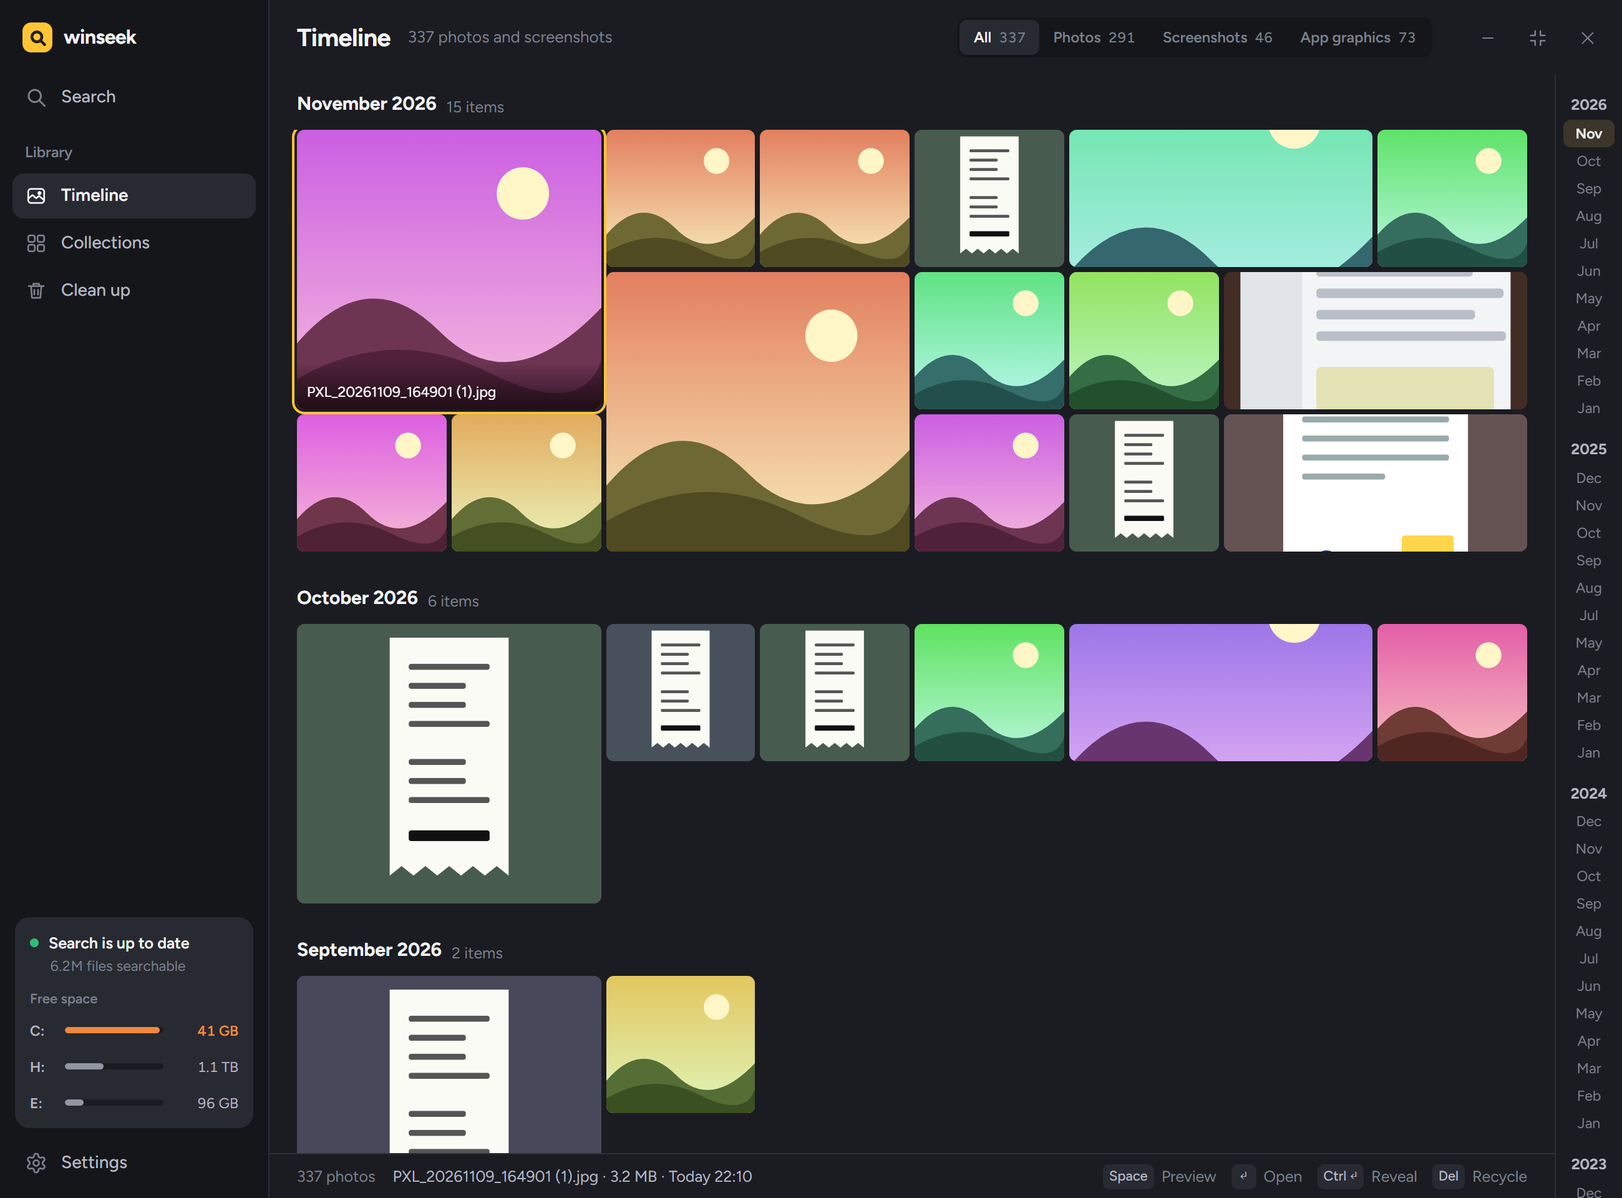
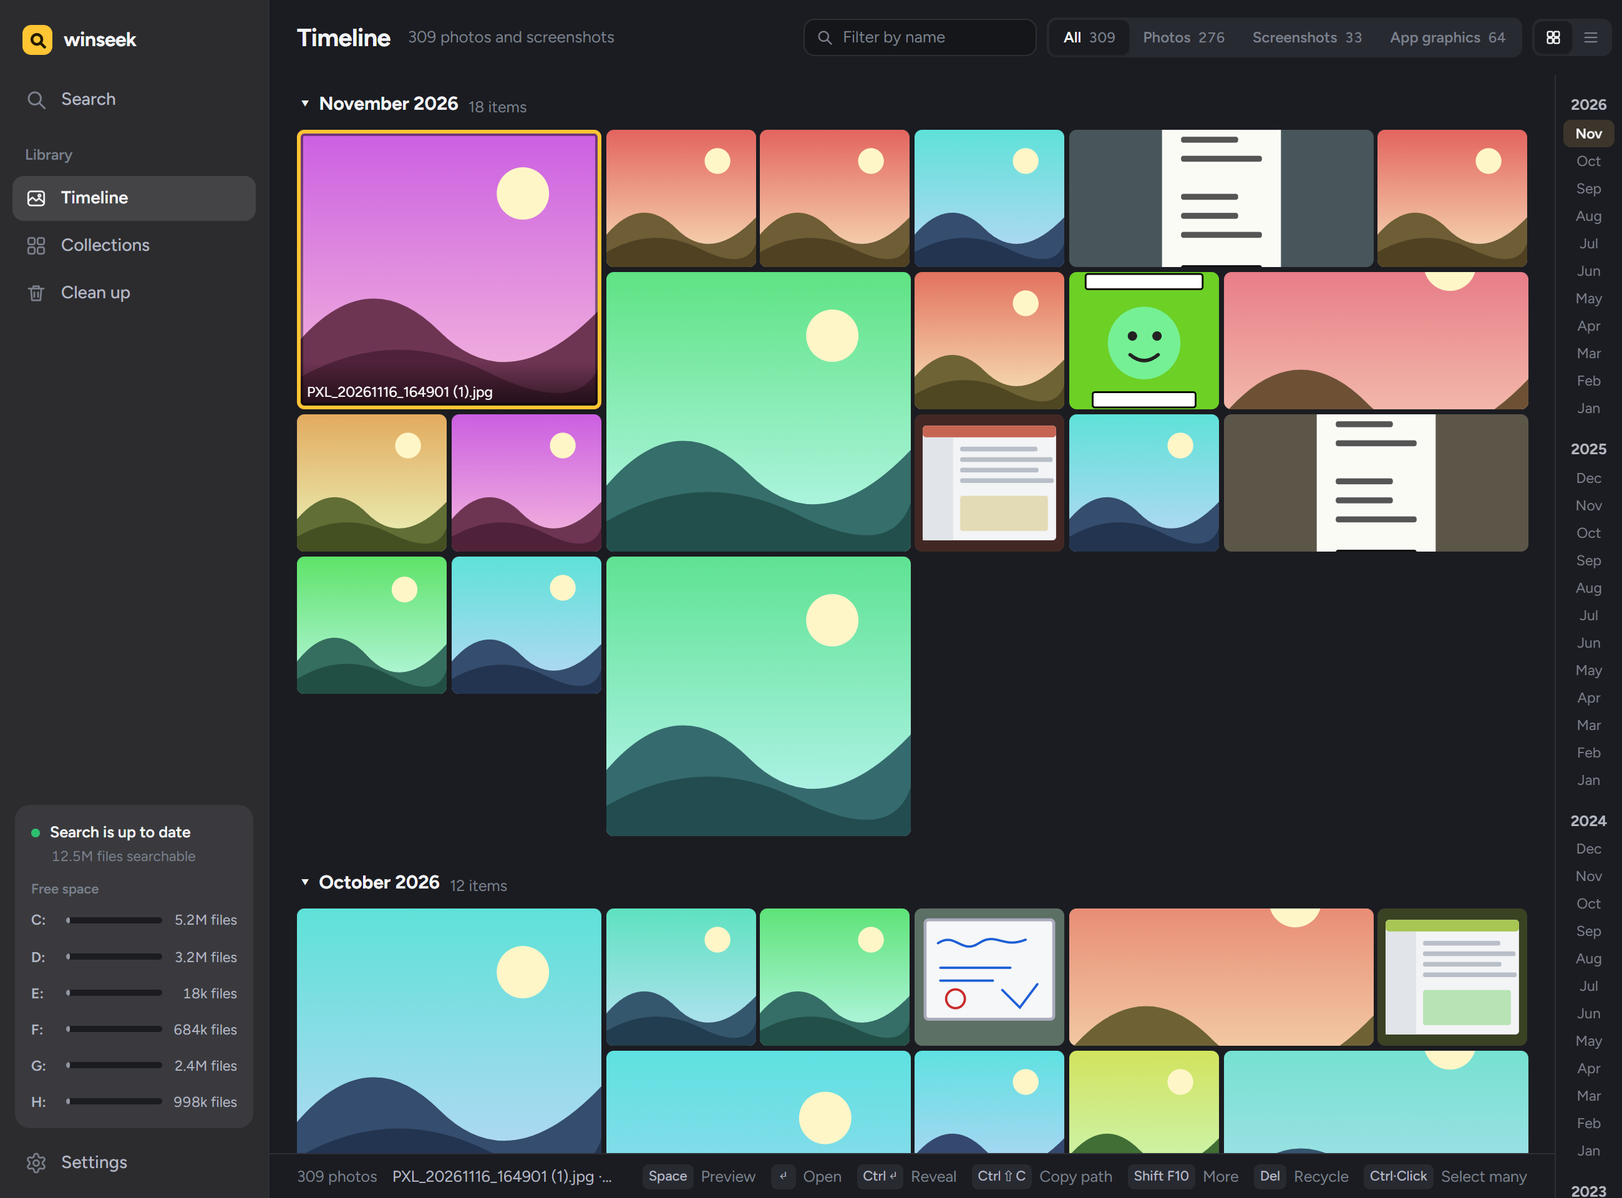
docs: FEATURES.md catalogues everything the app can do (fourteen sections from the search box to the MCP/CLI agent surface), the README points at it, and the screenshots are re-taken on the current build

diff --git a/FEATURES.md b/FEATURES.md
@@ -1,0 +1,269 @@
+# winseek — everything it can do
+
+winseek is one search box for your whole PC. It finds files by **name** instantly (Everything-speed, straight from the NTFS table), finds them by **meaning and content** (documents, PDFs, screenshots, photos, code), launches **apps and Windows settings**, and gives you a **Library** for your photos, duplicates, disk space and clean-up. It also lets AI agents search your PC through a read-only **MCP server and CLI**.
+
+Contents: [Search](#1-search) · [Results & actions](#2-results--actions) · [Preview](#3-preview) · [Search by meaning](#4-search-by-meaning) · [Code search](#5-code-search) · [Launcher](#6-launcher) · [Library](#7-library) · [Disk space](#8-disk-space) · [Clean-up](#9-clean-up) · [Shortcuts](#10-keyboard-shortcuts) · [Settings](#11-settings) · [AI agents, MCP & CLI](#12-ai-agents-mcp--cli) · [Indexing](#13-indexing-and-live-updates) · [Privacy](#14-privacy-and-safety)
+
+---
+
+## 1. Search
+
+### Instant name search
+- Every drive is read directly from the NTFS master file table and then kept current from the USN change journal (new, renamed and deleted files appear within about a second). A full scan of a large system drive takes seconds; later launches restore from a snapshot in under 5 s.
+- Works on NTFS, ReFS (via a journal walker), exFAT, FAT and USB drives (via a folder watcher).
+- Matching ignores case and accents; every word must match.
+- Name hits show **why** they matched, and matched words are highlighted.
+
+### Plain-language search (chips)
+Type naturally. Recognised phrases become chips in the bar; everything else is searched as text. Remove a chip with its ✕ or with Backspace at the start of the box, and its words go back into the search.
+
+| You type | winseek understands |
+|---|---|
+| `photos from last summer` | Pictures + that summer |
+| `pdf invoice 2025` | PDF + year 2025 + text "invoice" |
+| `big videos` | Video over 100 MB |
+| `screenshots this week` | Screenshots from this week |
+| `image of a cat` | Pictures + text "cat" |
+
+- **Types:** photos/pictures/pics/images · docs/documents · videos/movies/clips · audio/music/songs/podcasts · folders/directories · apps/programs/installers · settings · files
+- **Dates:** today, yesterday, this/last week (Monday start), this/last month, this/last year, `past 7 days` (any count of days/weeks/months/years), seasons (`last summer`, `winter 2025`), months (`march`, `mar 2025`), years (`2024`). Filler words like *from, in, during, since, on* are understood.
+- **Sizes:** `big` (>100 MB), `huge` (>1 GB), `small` (<1 MB), or exact: `over 10 mb`, `under 500 kb`, `> 2 gb`, `<= 50mb`. Units b / kb / mb / gb / tb.
+- **Extensions:** pdf, docx, xlsx, pptx, csv, txt, md, png, jpg/jpeg, gif, heic, mp4, mkv, mp3, flac, wav, zip, exe, msi (`.pdf` with a dot works too).
+- **Screenshots** is its own chip.
+
+### The Filters button
+The **Filters** button in the search bar opens "Narrow your search": one-click Type, Date, Size and File-type buttons (click again to remove; picking another in the same row swaps it) and a Power-syntax section that inserts the typed forms below.
+
+### Power syntax
+All terms must match (AND).
+
+| Syntax | Meaning |
+|---|---|
+| `"exact phrase"` | words together, in order |
+| `!word` | exclude matches |
+| `*` `?` | wildcards (`*.psd`, `report-202?`) |
+| `ext:jpg;png` | one or several extensions |
+| `size:>50mb`, `size:10mb..1gb` | size comparisons and ranges (`>` `>=` `<` `<=` `A..B`) |
+| `folder:` / `file:` | only folders / only files |
+| `ws:` | match at the start of a word |
+| `docs\2024` | a path fragment limits results to that folder |
+| `code:` | search inside source code ([§5](#5-code-search)) |
+| `20% of 80`, `(15/4)^2` | built-in calculator ([§6](#6-launcher)) |
+
+### Search box extras
+- **Type tabs with live counts** for the typed query: All, Apps, Settings, Images, Docs, Video, Audio, Folders (Tab / Shift+Tab or Alt+1…8).
+- **Sort** (Alt+S cycles): best match, name, size, date, type, path, each ascending/descending.
+- **Drive switch**: limit to one drive or search all.
+- **Search history**: Alt+↑/↓ steps through earlier queries.
+- **Clipboard search**: a separate hotkey opens winseek with your clipboard text as the query.
+- **Expand a section** (Alt+→) to see every result of one type, Alt+← to go back.
+- **Image grid** results in the popup, navigable with ←/→.
+- **"Fix it" suggestions** on empty results: remove a chip, widen the search.
+
+---
+
+## 2. Results & actions
+
+- **Two windows, one app:** a compact popup (global hotkey, default Alt+Space) and a full window with sidebar. Switch with the expand/contract button; set which one opens by default.
+- **Result layouts:** list, grid, gallery; rows show type icon or thumbnail, path breadcrumb, size, date.
+- **Top result card** with a large icon and a preview of the path, and a **"Most used"** app tile.
+- **Open** (Enter), **Show in folder** (Ctrl+Enter), **Run as admin** for apps (Ctrl+Shift+Enter), **Properties** (Alt+Enter), **Open terminal in folder** (Ctrl+Shift+T), **Open folder without selecting** (Ctrl+Shift+E).
+- **Rename** in place (F2).
+- **Delete → Recycle Bin** (Delete, confirmed by pressing twice) with **Undo** (Ctrl+Z) and an Undo link in the toast.
+- **Copy**: the file itself (Ctrl+C, pastes in Explorer), full path (Ctrl+Shift+C), file name (Ctrl+Alt+C).
+- **Drag out** a result into other apps, **right-click / Shift+F10 / Ctrl+K** for the full context menu.
+- **Multi-select** with Ctrl+click; a running **total size** is shown.
+- **Open at a position**: PDFs at a page, media at a timestamp, code at a line, in your default handler when it supports that (VLC, mpv, MPC-HC, VS Code, Notepad++), otherwise the plain open.
+- **Toasts** for every action, with Undo where it applies.
+- **Update checker** (daily, optional) with a link to the release page.
+
+---
+
+## 3. Preview
+
+Press **Space** on any result. Esc closes.
+
+- **Images**: fit, wheel zoom, drag pan, 1:1 (Ctrl+= / Ctrl+− / Ctrl+0, Alt+Shift+arrows to pan). HEIC supported.
+- **PDF**: page-by-page via the bundled PDF reader (Ctrl+PgUp/PgDn between pages).
+- **Documents**: Word documents rendered inline; text and code with syntax highlighting; **Markdown** with GitHub-style rendering and a Preview/Source toggle; highlighted code blocks.
+- **Video / audio** playback.
+- **Document parser** (Ctrl+E): turns a page into text with tables; **copy extracted text** (Ctrl+Shift+X), **copy tables as HTML or Markdown** (pastes into Excel/Word).
+- **Match highlighting**: boxes drawn on the image or page where your search words were found (from OCR and parser locations).
+- **Path crumbs** and a compact facts strip (size, dimensions, dates).
+
+---
+
+## 4. Search by meaning
+
+Optional. Describe what a file is about, and winseek finds it even when the words differ.
+
+- Covers the folders you choose (default: Pictures, Documents, Desktop, Downloads). Name search always covers every volume.
+- **Images**: searches by what is in the picture and by any text in it.
+- **Documents and PDFs**: text is extracted and embedded; scanned or image-only pages are read with Windows OCR, and sparse or garbled pages go to an optional **document parser** vision model (tables kept as HTML/Markdown). Unreadable pages are skipped, never guessed.
+- **Audio and video**: the soundtrack is embedded in ~30 s overlapping windows, and videos also get one frame per shot (scene change, at least one per minute), embedded like images. No transcript step: audio is matched by meaning directly. Hits open at the matching timestamp. Needs the ffmpeg component (installed on demand); without it audio/video files stay queued.
+- **Relevance gate**: results below a score learned from your own index are dropped, so searches return few good answers instead of a long tail.
+- **Result refiner (reranker)**: optional second pass that reorders the top hits.
+- **Combined ranking**: name, content and meaning hits are fused into one list; each says why it matched.
+- **Local models on llama.cpp**: EmbeddingGemma embeddings plus a vision encoder; CUDA → Vulkan → CPU fallback chosen by GPU detection and a health check; models are pinned and SHA-256 checked; servers listen on 127.0.0.1 with a per-launch key and exit after two idle minutes.
+- **Performance profiles**: Low, Balanced, Fast background work.
+- **Folder scopes** with an estimate (files, time) before you add a folder; per-folder removal; **skipped-names list** (e.g. `Raw*`, `scratch`) to ignore files and folders.
+- **Pause / resume**, **rebuild the meaning index**, **index health check**.
+
+---
+
+## 5. Code search
+
+- Turn on **Index source code** in Settings, then search with `code:` ("code: parse config").
+- Chunks are line-aware, so each hit carries its **line number** and opens at that line.
+- Ranking blends keyword and meaning (hybrid), and favours definitions.
+- **Git-aware**: inside a repository, `git ls-files` decides what counts (respects `.gitignore`, global excludes, nested repos); falls back to a built-in `.gitignore` parser without git.
+
+---
+
+## 6. Launcher
+
+The same box launches things.
+
+- **Apps**: Start-menu apps, Store (UWP) apps, **portable programs** (unzipped tools, game launchers, scoop apps found by the name index), and **programs on your PATH**. Uninstallers can be hidden.
+- **Aliases**: type `word` for Microsoft Word, `ps` for Photoshop, `taskmgr` for Task Manager; built-in table plus your own aliases.
+- **Learning**: your picks are remembered per typed prefix (frecency), so `mp` opens what you always mean. Clear history in Settings.
+- **Windows settings and Control Panel** pages, searchable by name.
+- **System commands**: lock, sleep, hibernate (only when available), restart, shutdown, sign out, empty Recycle Bin, plus winseek's own panels. Dangerous ones need a second Enter to confirm.
+- **Calculator**: `2+2*3`, `(15/4)^2`, `20% of 80`; Enter copies the result.
+- **Hide / unhide** items, copy path, reveal, run as admin (context menu with keyboard letters).
+- Toggle each source (apps, settings, commands, portable, PATH) in Settings › Launcher.
+
+---
+
+## 7. Library
+
+Open with Ctrl+L, the sidebar, or the tray. Tabs: **Timeline**, **Collections**, **Clean up** (Ctrl+1/2/3).
+
+### Photo timeline
+- Every indexed picture, newest first, grouped by year and month with counts and sizes, in a mosaic with feature tiles or a list.
+- Views: **All**, **Photos** (camera and saved images), **Screenshots**, **App graphics** (icons, logos and game assets that ship with software are detected without any model and hidden from everything else).
+- Name filter, hidden files, month jump, floating preview pane (Space).
+- Scales to a million photos by keeping the list in the backend and sending only what is on screen.
+
+### Collections
+- A collection is a **saved description** ("a photo of a paper receipt or invoice"); winseek keeps it filled from your photos, screenshots and documents. Starters include Receipts, Whiteboards, Memes, Documents to sign and Screenshots; icons and app graphics stay out.
+- A **strictness slider** controls how tight a collection is.
+- **Create (Ctrl+N), rename/edit (F2), delete** collections; press X on a tile that does not belong and it stays out.
+
+---
+
+## 8. Disk space
+
+WizTree-style, reachable from the sidebar drive card or Clean up.
+
+- Per-drive bar by file type, folder tree with sizes, and a **treemap**.
+- Biggest files list and by-type lists; cached roll-ups so it opens instantly after the scan.
+- **Selection total** shown once, consistently, across the header, side panel and Recycle button.
+- Select and **recycle** straight from here.
+
+---
+
+## 9. Clean-up
+
+Two tabs: **Suggestions** and **Disk space**. "Nothing is deleted until you say so."
+
+- **Suggestions** summarises what you can free (total, duplicate size, large files you don't open) with three lists:
+  - **Duplicates** (keeps the original), with **Review groups** and **Find similar photos** (a background near-duplicate scan).
+  - **Large and untouched** files, biggest first, with **See all**.
+  - **Old screenshots** older than six months.
+- Check rows with Space, Enter to review, Delete to recycle; everything goes to the Recycle Bin (with Undo).
+
+---
+
+## 10. Keyboard shortcuts
+
+Press **F1** or **Ctrl+/** for the live cheat sheet (shows your current bindings).
+
+| Where | Keys |
+|---|---|
+| Global | **Alt+Space** show/hide (rebindable) |
+| Move | ↑↓, PgUp/PgDn, Ctrl+Home/End, Ctrl+↑↓ between sections, ←→ in image grid, Esc back one layer |
+| Query | Tab / Shift+Tab type filter, Alt+1…8 jump to a type, Alt+S sort, Backspace removes last chip, Alt+↑↓ history, Alt+→ / Alt+← expand / back |
+| Selection | Enter, Space, Ctrl+Enter, Ctrl+Shift+Enter, Alt+Enter, F2, Delete, Ctrl+Z, Shift+F10 / Menu, Ctrl+K, Ctrl+C, Ctrl+Shift+C, Ctrl+Alt+C, Ctrl+Shift+E, Ctrl+Shift+T |
+| Windows | Ctrl+L Library, Ctrl+, Settings, Ctrl+Shift+L index health |
+| Preview | Esc, Enter, Ctrl+Enter, Ctrl+Shift+C, Ctrl+PgUp/PgDn, Ctrl+= / − / 0, Alt+Shift+arrows, Ctrl+E, Ctrl+Shift+X |
+| Library | Ctrl+1/2/3 tabs, Esc/Alt+← back, ↑↓, Enter, Ctrl+N, F2, Delete; Clean-up: Tab, Space, Delete |
+| Settings | Tab, Ctrl+1…7 sections, ↑↓, Esc |
+
+Layouts are physical-key based, so they work on AZERTY and other keyboards.
+
+---
+
+## 11. Settings
+
+Search the settings with the **Find a setting** box.
+
+- **General**: open as (popup or full window), start with Windows, daily update check, version, Library options.
+- **Appearance**: themes (built-in palettes), **custom theme editor** (a colour for every element, saved), accent colour, window transparency.
+- **Shortcuts**: popup, Library and clipboard hotkeys, recorded by pressing the keys; **pause hotkeys** from the tray, and automatically in full-screen games and presentations.
+- **Indexing**: folders, source-code indexing, skipped names.
+- **Search by meaning**: status, index check, per-component **model downloads** (embedder, llama.cpp runtime, PDF reader, document parser, result refiner) with progress and cancel, performance profile, rebuild.
+- **Launcher**: which sources appear, aliases, history.
+- **AI agents**: enable the MCP server, choose what agents may read, **activity log**, command-line PATH.
+- **Status**: per-drive index state, meaning-index progress, model server rows with unload countdown.
+
+Other UI: a **bottom jobs strip** showing drive scans, meaning indexing, document reading and downloads (click a segment to open its settings), a first-run setup with a folder estimate, a system-tray icon and autostart.
+
+---
+
+## 12. AI agents, MCP & CLI
+
+### MCP server (`winseek-mcp.exe`)
+Read-only, stdio JSON-RPC, off by default (Settings › AI agents). Every call is logged on the settings page. Connect Claude Code, Claude Desktop, Cursor, VS Code or Codex with the snippets provided.
+
+| Tool | What it does |
+|---|---|
+| `search_files` | name search with the full syntax, sort and date/size filters |
+| `search_by_meaning` | semantic search over indexed content |
+| `read_text` | read a file's text (with page) |
+| `parse_document` | run the document parser on a page |
+| `recent_files` | most recently changed files |
+| `file_info` | metadata for a path |
+| `find_apps` | installed apps, settings pages, commands |
+| `library_big_files`, `library_duplicates`, `library_collections` | the Library's big files, duplicate groups and collections |
+| `index_status` | index health (always available) |
+
+Agents cannot open, launch, rename or delete anything.
+
+### Command line (`winseek-cli.exe`)
+
+```
+winseek-cli search <query...> [-n N] [--sort ORDER] [--long] [--json]
+winseek-cli status [--json]
+winseek-cli index [VOLUME | --all] [--wait] [--timeout SECS]
+winseek-cli meaning <query...> [-n N] [--long] [--json]
+winseek-cli read <path> [--page N] [--max N] [--json]
+winseek-cli recent [-n N] [--json]
+winseek-cli apps <query...> [-n N] [--kind app|setting|command] [--json]
+winseek-cli path [status | add | remove] [--machine] [--json]
+```
+
+Sort orders: name, size, date, type, path, each with `_asc` / `_desc`. `search`, `status` and `index` work with the app closed; the rest need the app with agent access on. Paths print one per line, `--json` on any command.
+
+---
+
+## 13. Indexing and live updates
+
+- **Tier 0 (name index)** runs as a Windows service (`searchd`) and never reads file contents.
+- **Tier 1 (content)** runs in your user account only: crawler, text extraction (documents, PDFs, code, media metadata), OCR, embeddings, document parser, picture classification, near-duplicate scan.
+- Index lives in one SQLite file (FTS5 full-text plus vector table) with automatic recovery from damage; snapshots keep launches instant.
+- Rescan a drive on demand; a stuck scan is detected.
+- Background work respects your profile and steps aside for games.
+
+---
+
+## 14. Privacy and safety
+
+- No account, no telemetry. The only network traffic is model downloads you start yourself (and the optional update check).
+- File contents and models are never touched by the SYSTEM service.
+- Local model servers bind to 127.0.0.1 with a per-launch key.
+- MCP/CLI access is read-only and off until you enable it; the pipe is restricted to your user.
+- Deleting uses the Recycle Bin with Undo.
+
+## Not built yet
+Sorting by created/accessed time (date sort is modified time only), and word-for-word transcripts of speech (audio is searched by meaning, not transcribed).

diff --git a/README.md b/README.md
@@ -4,15 +4,31 @@
 [![Release](https://img.shields.io/github/v/release/ach-raf/winseek?include_prereleases)](https://github.com/ach-raf/winseek/releases)
 [![License: MIT](https://img.shields.io/badge/license-MIT-blue.svg)](#license)
 
-File search for Windows with two modes: instant name search over every drive, and search by what files contain (photos, scans, PDFs). Everything runs locally.
+File search for Windows with two modes: instant name search over every drive, and search by what files contain (photos, scans, PDFs). Everything runs locally. See [FEATURES.md](FEATURES.md) for the full list of what it can do.
 
-<p align="center"><img src="screenshots/popup.png" alt="The winseek popup: filename matches, then results related by meaning" width="720"></p>
+<p align="center"><img src="screenshots/popup.png" alt="The winseek popup: the best match first, then results related by meaning, with the live jobs strip at the bottom" width="720"></p>
 
 Press `Alt+Space`, type `report`, and every file with "report" in its name appears in milliseconds, across all drives. Type `a dog on the beach` or `invoice total` and winseek finds the photo or scanned document whose contents match, using embeddings computed on your machine.
 
 Status: early development, version 0.2.x. The name index, live updates, and image and document search work end to end. Tested on Windows 10 x64 with an NVIDIA RTX 3060. The Vulkan and CPU fallbacks work but get less testing. The installer is unsigned.
 
-<p align="center"><img src="screenshots/library.png" alt="The photo timeline in the library window" width="720"></p>
+<p align="center"><img src="screenshots/library.png" alt="The Library timeline: every photo and screenshot by month" width="720"></p>
+
+## Tour
+
+<table>
+<tr>
+<td width="50%"><img src="screenshots/filters.png" alt="The Filters panel: type, date, size and file-type buttons plus power syntax"><br><b>Filters.</b> Say it in words (<code>pdf invoice last month</code>) and the phrases become chips, or click them together in the Filters panel.</td>
+<td width="50%"><img src="screenshots/search.png" alt="The full window: picture results with a live preview pane"><br><b>Full window.</b> Results as a list, grid or gallery with a preview pane, copy-table and one-key actions.</td>
+</tr>
+<tr>
+<td><img src="screenshots/collections.png" alt="Collections: saved descriptions that keep themselves filled"><br><b>Collections.</b> Describe what you want ("a photo of a paper receipt") and winseek keeps the collection filled.</td>
+<td><img src="screenshots/cleanup.png" alt="Clean up: duplicates, large untouched files and old screenshots"><br><b>Clean up.</b> Duplicates, big files you never open and old screenshots, with a Disk space view per drive. Nothing is deleted until you say so.</td>
+</tr>
+<tr>
+<td colspan="2"><img src="screenshots/settings.png" alt="Settings: search by meaning, model downloads and live indexing progress"><br><b>Settings.</b> Model downloads, indexing progress and every option in one searchable place.</td>
+</tr>
+</table>
 
 ## What it searches
 
@@ -75,6 +91,12 @@ A full scan of C: (5.95 million files and folders) takes about 33 seconds. Resto
 | `ext:jpg;png` | files with those extensions |
 | `folder:`, `file:` | only folders, or only files |
 | `docs\2024` | a term containing `\` matches against the path |
+| `photos from last summer`, `big videos`, `pdf 2025` | plain words become filter chips: type (photos, documents, video, audio, apps, folders), date (`today`, `last week`, `march 2025`, `past 7 days`, seasons, years) and size (`big`, `huge`, `over 10 mb`, `under 500 kb`) |
+| `size:>50mb`, `size:10mb..1gb` | size operators and ranges |
+| `!draft` | exclude names containing a word |
+| `code: parse config` | search inside source code (turn on code indexing in Settings) |
+
+The **Filters** button next to the search box lists all of this as one-click buttons.
 
 ### Search by meaning
 
@@ -137,11 +159,16 @@ Indexes, models and queries stay on your machine. There is no telemetry and no a
 
 | Key | Action |
 |---|---|
-| `Alt+Space` | show or hide winseek |
+| `Alt+Space` | show or hide winseek (rebindable) |
 | `↑` `↓` | move through results |
+| `Tab`, `Alt+1`…`Alt+8` | switch result type |
 | `Space` | preview the selected result |
-| `Enter` | open |
-| `Esc` | hide |
+| `Enter` / `Ctrl+Enter` | open / show in folder |
+| `F2`, `Delete`, `Ctrl+Z` | rename, recycle, undo |
+| `Ctrl+K` | more actions |
+| `Ctrl+L` | open the Library |
+| `F1` | every shortcut |
+| `Esc` | back one layer, then hide |
 
 ## Build from source
 
